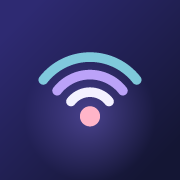
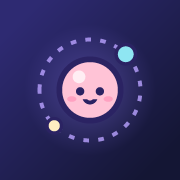
โลโก้ใหม่ แถบบนแบบแคปซูลกระจก และหน้าจอคอมพอดีจอไม่ต้องเลื่อน
- โลโก้: ดาวเคราะห์ยิ้มสไตล์สติกเกอร์ มีวงโคจรเส้นประและเครื่อง 2 เครื่องโคจรรอบ
  (เฉพาะวงโคจรที่หมุน หยุดในโหมดประหยัดพลังงาน) ใช้เป็นไอคอนแอปและ favicon ด้วย
- ชื่อ Nearby ไล่สีตามธีม พร้อมดาวประกายเล็ก ๆ
- แถบบนเป็นแคปซูลกระจกลอยตัว (มือถือเป็นการ์ดสองแถว) จุดสถานะเครือข่ายเต้นเหมือนสัญญาณ
- จอคอม: เรดาร์ปรับขนาดตามความสูงที่เหลือ footer เป็นแถวเดียว ทั้งแอปพอดีจอไม่ต้องเลื่อน

diff --git a/css/style.css b/css/style.css
@@ -42,6 +42,8 @@
   --shadow: 0 18px 50px rgba(5, 4, 30, 0.45);
   --scroll-thumb: rgba(185, 162, 255, 0.38);
   --scroll-thumb-hover: rgba(185, 162, 255, 0.62);
+  --word-a: #efe6ff;
+  --word-b: #8fe6f2;
   --radius: 22px;
   --font: "Mitr", "Leelawadee UI", "Sukhumvit Set", "Noto Sans Thai", system-ui, -apple-system, "Segoe UI", sans-serif;
   color-scheme: dark;
@@ -86,6 +88,8 @@
   --shadow: 0 18px 50px rgba(90, 60, 170, 0.2);
   --scroll-thumb: rgba(74, 58, 180, 0.35);
   --scroll-thumb-hover: rgba(74, 58, 180, 0.6);
+  --word-a: #4a3fcf;
+  --word-b: #d9466f;
   color-scheme: light;
 }
 
@@ -166,22 +170,45 @@ svg { width: 22px; height: 22px; fill: none; stroke: currentColor; stroke-width:
   100% { opacity: 0; transform: rotate(-28deg) translateX(-480px); }
 }
 
-/* ---------- top bar ---------- */
+/* ---------- top bar: a glass capsule floating in the sky ---------- */
 .topbar {
   position: relative; z-index: 2;
   display: flex; align-items: center; justify-content: space-between; gap: 12px;
-  padding: max(14px, env(safe-area-inset-top)) 20px 12px;
-  border-bottom: 1px solid var(--line);
+  width: min(100% - 32px, 1240px);
+  margin: max(12px, env(safe-area-inset-top)) auto 0;
+  padding: 7px 10px 7px 8px;
+  border-radius: 999px;
+  background: var(--surface);
+  border: 1px solid var(--ring-strong);
+  box-shadow: var(--shadow), inset 0 1px 0 rgba(255, 255, 255, 0.07);
 }
 .brand { display: flex; align-items: center; gap: 12px; min-width: 0; }
-.brand-orb {
-  width: 42px; height: 42px; border-radius: 50%; flex-shrink: 0;
-  display: grid; place-items: center;
-  color: var(--sky);
-  background: radial-gradient(circle at 35% 30%, rgba(185, 162, 255, 0.35), var(--surface-solid));
-  box-shadow: 0 0 0 1.5px var(--ring-strong), 0 0 18px rgba(143, 230, 242, 0.25);
+/* logo: planet (static) + orbit with two little "devices" (the only part that moves) */
+.brand-logo { position: relative; width: 44px; height: 44px; flex-shrink: 0; }
+.brand-logo svg { position: absolute; inset: 0; width: 100%; height: 100%; stroke: none; }
+.logo-orbit { animation: orbit 16s linear infinite; }
+@keyframes orbit { to { transform: rotate(360deg); } }
+.logo-orbit .orbit { fill: none; stroke: var(--lav); stroke-width: 1.4; stroke-dasharray: 2.2 3.6; stroke-linecap: round; opacity: 0.75; }
+.logo-orbit .moon-a { fill: var(--sky); stroke: #2b2363; stroke-width: 1.4; }
+.logo-orbit .moon-b { fill: #ffeec2; stroke: #2b2363; stroke-width: 1.3; }
+.logo-planet .body { fill: #ffc3d6; stroke: #2b2363; stroke-width: 2.2; }
+.logo-planet .shine { fill: #fff; opacity: 0.7; }
+.logo-planet .eye { fill: #2b2363; }
+.logo-planet .smile { fill: none; stroke: #2b2363; stroke-width: 1.6; stroke-linecap: round; }
+.logo-planet .cheek { fill: #ff8fb5; opacity: 0.65; }
+:root.lite .logo-orbit { animation: none; }
+
+/* wordmark: gradient letters and a small sparkle */
+.brand h1 {
+  font-size: 20px; margin: 0; line-height: 1.15; font-weight: 600; letter-spacing: 0.01em;
+  background: linear-gradient(90deg, var(--word-a), var(--word-b));
+  -webkit-background-clip: text; background-clip: text;
+  color: transparent;
 }
-.brand h1 { font-size: 20px; margin: 0; line-height: 1.1; font-weight: 600; letter-spacing: 0.01em; }
+.brand h1::after {
+  content: "✦"; margin-left: 4px; font-size: 0.6em; vertical-align: 0.55em;
+  color: var(--peach); -webkit-text-fill-color: var(--peach);
+}
 .brand p { margin: 0; font-size: 12.5px; color: var(--muted); white-space: nowrap; overflow: hidden; text-overflow: ellipsis; }
 .actions { display: flex; align-items: center; gap: 6px; flex-shrink: 0; }
 
@@ -194,7 +221,15 @@ svg { width: 22px; height: 22px; fill: none; stroke: currentColor; stroke-width:
 }
 .chip:hover { border-color: var(--lav); }
 .dot { width: 9px; height: 9px; border-radius: 50%; background: var(--muted); flex-shrink: 0; }
-.dot.on { background: var(--mint); box-shadow: 0 0 0 3px color-mix(in srgb, var(--mint) 25%, transparent), 0 0 10px var(--mint); }
+.dot.on { position: relative; background: var(--mint); box-shadow: 0 0 10px var(--mint); }
+/* a soft signal pulse while it's listening for devices */
+.dot.on::after {
+  content: ""; position: absolute; inset: 0; border-radius: 50%;
+  background: var(--mint);
+  animation: signal 2.4s ease-out infinite;
+}
+@keyframes signal { from { transform: scale(1); opacity: 0.55; } to { transform: scale(2.8); opacity: 0; } }
+:root.lite .dot.on::after { animation: none; opacity: 0; }
 .dot.room { background: var(--lav); border-radius: 2px; transform: rotate(45deg); box-shadow: 0 0 10px var(--lav); }
 
 .icon-btn {
@@ -634,7 +669,7 @@ svg { width: 22px; height: 22px; fill: none; stroke: currentColor; stroke-width:
 :root[data-theme="light"] :is(.panel, .scan, .me-card, .chip) {
   box-shadow: var(--shadow), inset 0 1px 0 rgba(255, 255, 255, 0.85);
 }
-:root[data-theme="light"] .topbar { border-bottom-color: rgba(255, 255, 255, 0.5); }
+:root[data-theme="light"] .topbar { box-shadow: var(--shadow), inset 0 1px 0 rgba(255, 255, 255, 0.85); }
 :root[data-theme="light"] .hero h2 { color: #1f1850; }
 .tray-head {
   display: flex; align-items: center; justify-content: space-between; gap: 8px;
@@ -1117,6 +1152,18 @@ dialog.preview-dlg { width: min(860px, calc(100% - 24px)); max-height: calc(100d
 }
 
 /* ---------- responsive ---------- */
+/* Desktop: the whole app fits on one screen, no scrolling. The radar takes the height that's
+   left after the header, heading, scan bar and footer (which becomes a single row here);
+   --chrome is that fixed part. The side panel never grows taller than the radar. */
+@media (min-width: 1081px) {
+  :root { --chrome: 368px; }
+  .space { padding: 14px 16px 4px; gap: 10px; }
+  .hero h2 { margin: 4px 0 0; }
+  .radar { --size: min(100%, 540px, max(260px, calc(100dvh - var(--chrome)))); margin: 12px auto 24px; }
+  .panel { max-height: max(280px, calc(100dvh - var(--chrome) + 24px)); }
+  .me { flex-direction: row; justify-content: center; gap: 16px; padding-top: 4px; padding-bottom: max(10px, env(safe-area-inset-bottom)); }
+}
+
 @media (max-width: 1080px) {
   .stage { grid-template-columns: minmax(0, 1fr); justify-items: center; gap: 4px; }
   .radar, .panel { grid-column: 1; }
@@ -1127,7 +1174,6 @@ dialog.preview-dlg { width: min(860px, calc(100% - 24px)); max-height: calc(100d
 }
 
 @media (max-width: 640px) {
-  .topbar { padding-left: 16px; padding-right: 16px; }
   .brand p { display: none; }
   .space { padding-top: 16px; gap: 10px; }
   .radar { margin: 18px auto 30px; }
@@ -1148,10 +1194,10 @@ dialog.preview-dlg { width: min(860px, calc(100% - 24px)); max-height: calc(100d
   .icon-btn.install { padding: 0 9px; }
   /* Phone: two tidy rows instead of one squeezed row —
      [logo  Nearby ........ icons] then [ room / network chip, full width ]. */
-  .topbar { flex-wrap: wrap; row-gap: 10px; padding-top: max(10px, env(safe-area-inset-top)); padding-bottom: 10px; }
+  .topbar { flex-wrap: wrap; row-gap: 8px; }
   .brand { flex: 1; gap: 10px; }
-  .brand-orb { width: 36px; height: 36px; }
-  .brand-orb svg { width: 20px; height: 20px; }
+  .topbar { width: calc(100% - 20px); margin-top: max(10px, env(safe-area-inset-top)); border-radius: 24px; padding: 8px; }
+  .brand-logo { width: 38px; height: 38px; }
   .brand h1 { font-size: 18px; }
   .actions { display: contents; }
   .actions > .icon-btn { order: 1; }

diff --git a/index.html b/index.html
@@ -40,8 +40,22 @@
 
   <header class="topbar">
     <div class="brand">
-      <span class="brand-orb" aria-hidden="true">
-        <svg viewBox="0 0 24 24"><path d="M3 9.5a13 13 0 0 1 18 0"/><path d="M6 13a8.5 8.5 0 0 1 12 0"/><path d="M9.2 16.4a4 4 0 0 1 5.6 0"/><circle cx="12" cy="19.4" r="1.1" fill="currentColor" stroke="none"/></svg>
+      <!-- Logo: a little planet with two devices orbiting it (only the orbit layer turns) -->
+      <span class="brand-logo" aria-hidden="true">
+        <svg class="logo-orbit" viewBox="0 0 48 48">
+          <circle class="orbit" cx="24" cy="24" r="20.5"/>
+          <circle class="moon-a" cx="38.5" cy="9.5" r="3.6"/>
+          <circle class="moon-b" cx="9.5" cy="38.5" r="2.7"/>
+        </svg>
+        <svg class="logo-planet" viewBox="0 0 48 48">
+          <circle class="body" cx="24" cy="24" r="12.5"/>
+          <circle class="shine" cx="19.5" cy="18.8" r="2.6"/>
+          <circle class="eye" cx="20" cy="24.5" r="1.7"/>
+          <circle class="eye" cx="28" cy="24.5" r="1.7"/>
+          <path class="smile" d="M21.6 28.2q2.4 2.4 4.8 0"/>
+          <ellipse class="cheek" cx="16.6" cy="27.6" rx="1.9" ry="1.2"/>
+          <ellipse class="cheek" cx="31.4" cy="27.6" rx="1.9" ry="1.2"/>
+        </svg>
       </span>
       <div>
         <h1>Nearby</h1>

diff --git a/sw.js b/sw.js
@@ -3,7 +3,7 @@
 //  2. receives files shared from other apps (Web Share Target, Android)
 //  3. turns streamed incoming files into normal downloads (/__dl/<id>/<name>)
 
-const VERSION = 'nearby-v2.11.1'
+const VERSION = 'nearby-v2.12.0'
 const SHELL_CACHE = `${VERSION}-shell`
 const SHARE_CACHE = 'nearby-share'
 
